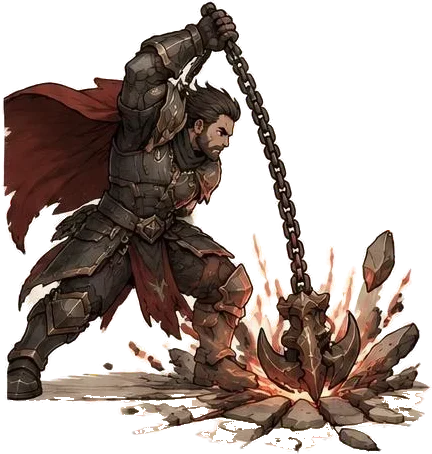
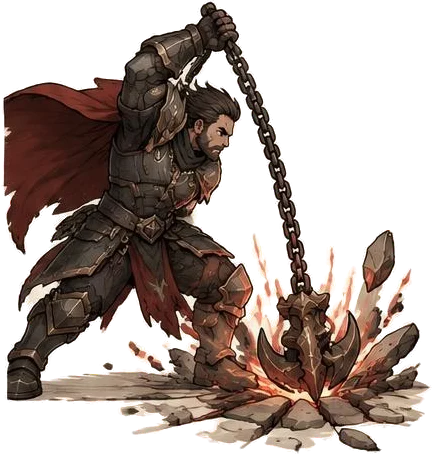
Realm: Varek's stage 1 idle pose shows the whole flail hook
Claude-Session: https://claude.ai/code/session_01V1aEsn5B6Gnr4Ug8DBZ5Wk

diff --git a/realm-images.js b/realm-images.js
@@ -28,7 +28,7 @@ const RL_ART={
   // Marla (marsh trapper, chibi). RARE. Frames per form are [Hooked Jab, Snare Toss, Bog Sweep].
   // Burl (beaver bridgewright, chibi). COMMON. Frames per form are [Mallet Tap, Timber Toss, Quick Barricade].
   // Varek (ashen chain warden, chibi). LEGENDARY. Frames per form are [Chainhook Strike, Cinder Sweep, Furnace Break].
-  chain:{f:[{src:'art/chain-1.webp',ax:218,ay:737,h:732,w:505,ih:735,ht:0},{src:'art/chain-2.webp',ax:213,ay:738,h:732,w:476,ih:736,ht:0},{src:'art/chain-3.webp',ax:251,ay:742,h:732,w:530,ih:740,ht:0}],pose:'skill',melee:true,meleeSk:[true,false,true],dashPose:[0,1,2],slash:'fire',
+  chain:{f:[{src:'art/chain-1.webp',ax:218,ay:737,h:732,w:510,ih:735,ht:0},{src:'art/chain-2.webp',ax:213,ay:738,h:732,w:476,ih:736,ht:0},{src:'art/chain-3.webp',ax:251,ay:742,h:732,w:530,ih:740,ht:0}],pose:'skill',melee:true,meleeSk:[true,false,true],dashPose:[0,1,2],slash:'fire',
         c:[[{src:'art/chain-1c1.webp',ax:139,ay:340,h:439,w:417,ih:341,ht:0},{src:'art/chain-1c2.webp',ax:154,ay:339,h:439,w:401,ih:338,ht:0},{src:'art/chain-1c3.webp',ax:325,ay:442,h:439,w:417,ih:445,ht:0}],
            [{src:'art/chain-2c1.webp',ax:144,ay:342,h:439,w:419,ih:343,ht:0},{src:'art/chain-2c2.webp',ax:198,ay:345,h:439,w:409,ih:345,ht:0},{src:'art/chain-2c3.webp',ax:279,ay:442,h:439,w:419,ih:456,ht:0}],
            [{src:'art/chain-3c1.webp',ax:148,ay:342,h:439,w:421,ih:343,ht:0},{src:'art/chain-3c2.webp',ax:211,ay:346,h:439,w:426,ih:347,ht:0},{src:'art/chain-3c3.webp',ax:300,ay:453,h:439,w:432,ih:454,ht:0}]],
